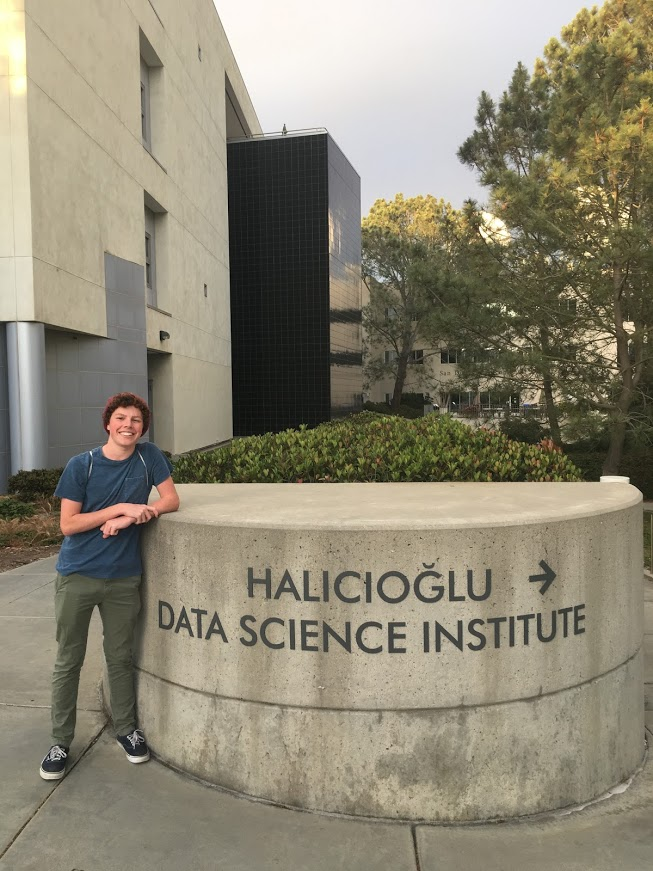
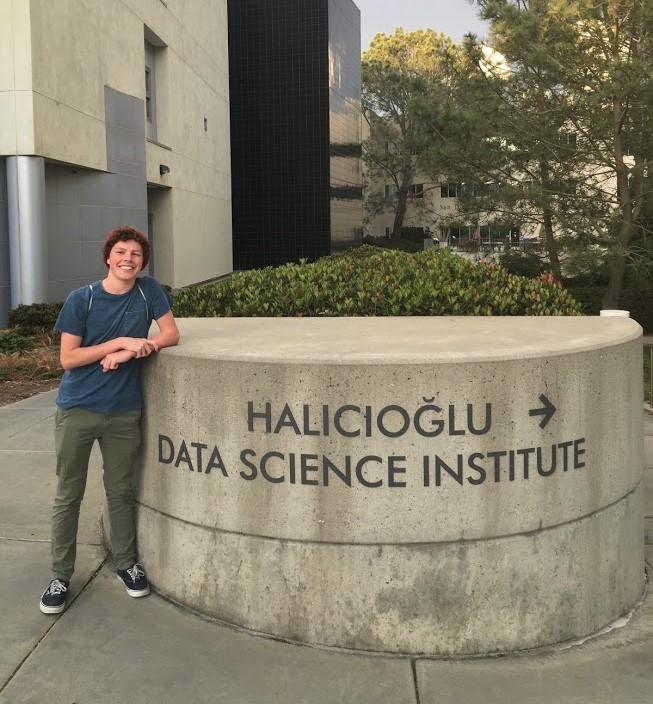
jpg -> JPG

diff --git a/about/index.html b/about/index.html
@@ -17,7 +17,7 @@ tab_title: About
     <div class="aboutpage">
 
         <div class="moment">
-          <img src="/css/me.jpg"></img>
+          <img src="/css/me.JPG"></img>
           <div class="content">
             <h1>Hello There!</h1>
             <p>
